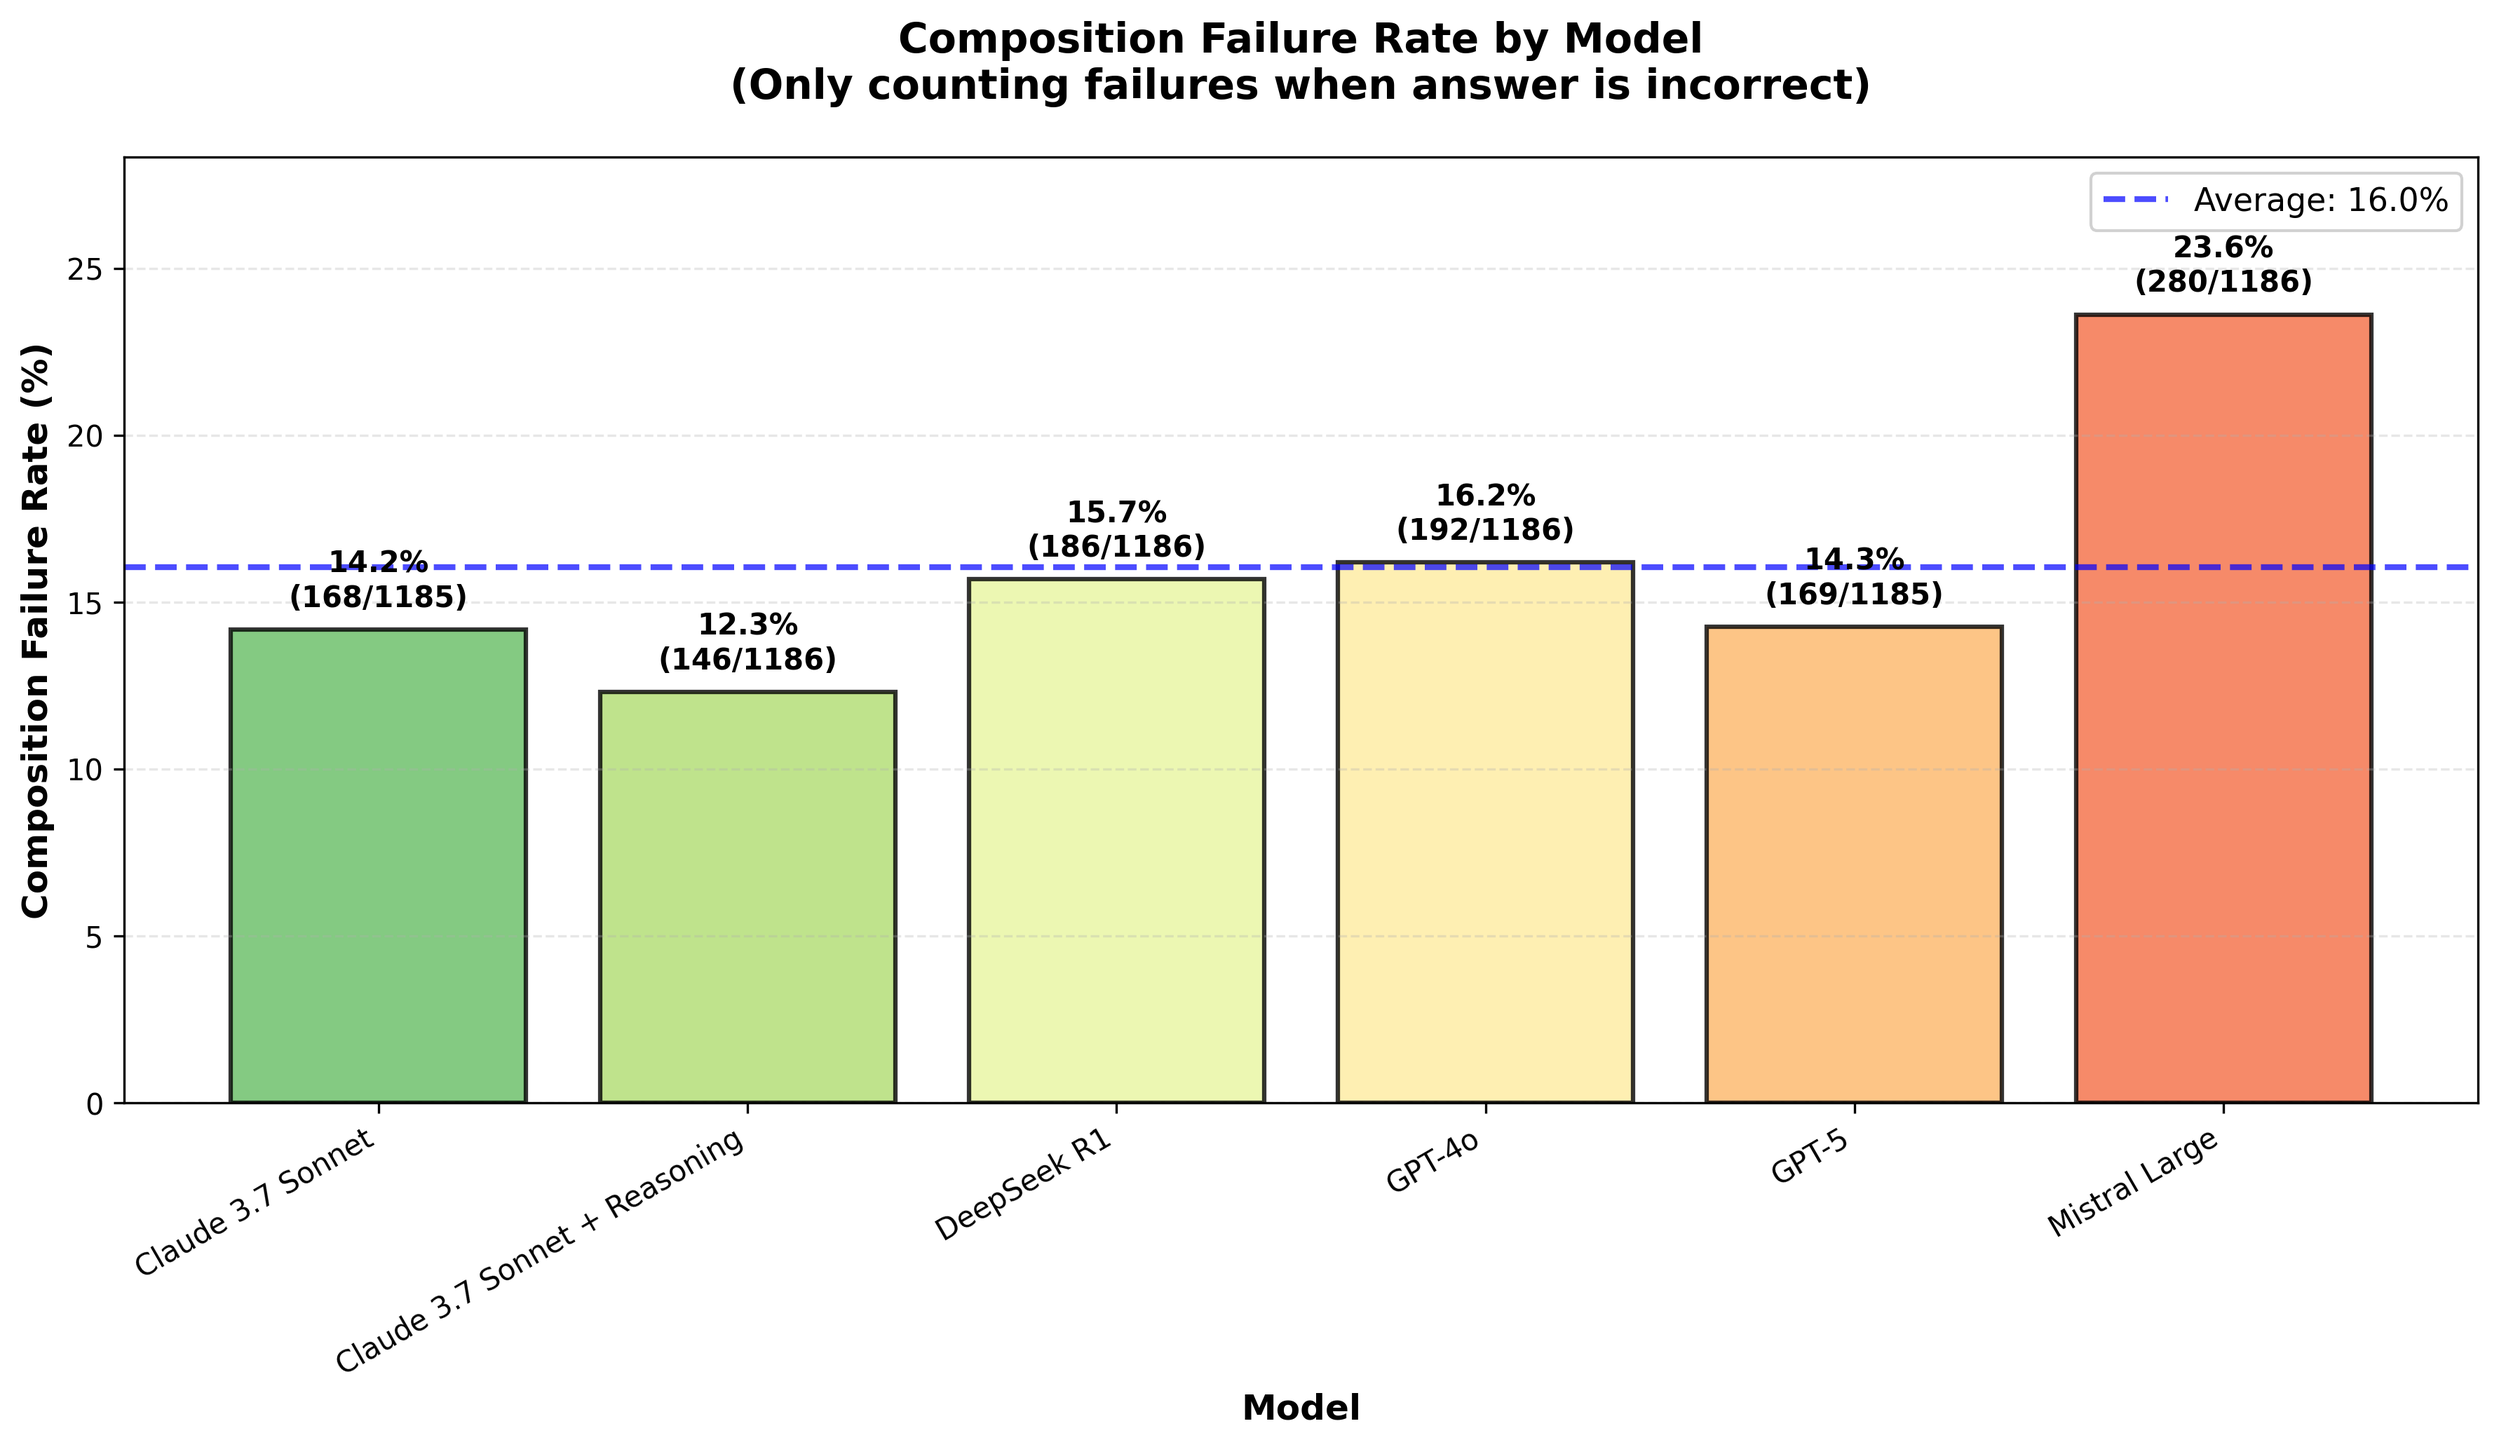
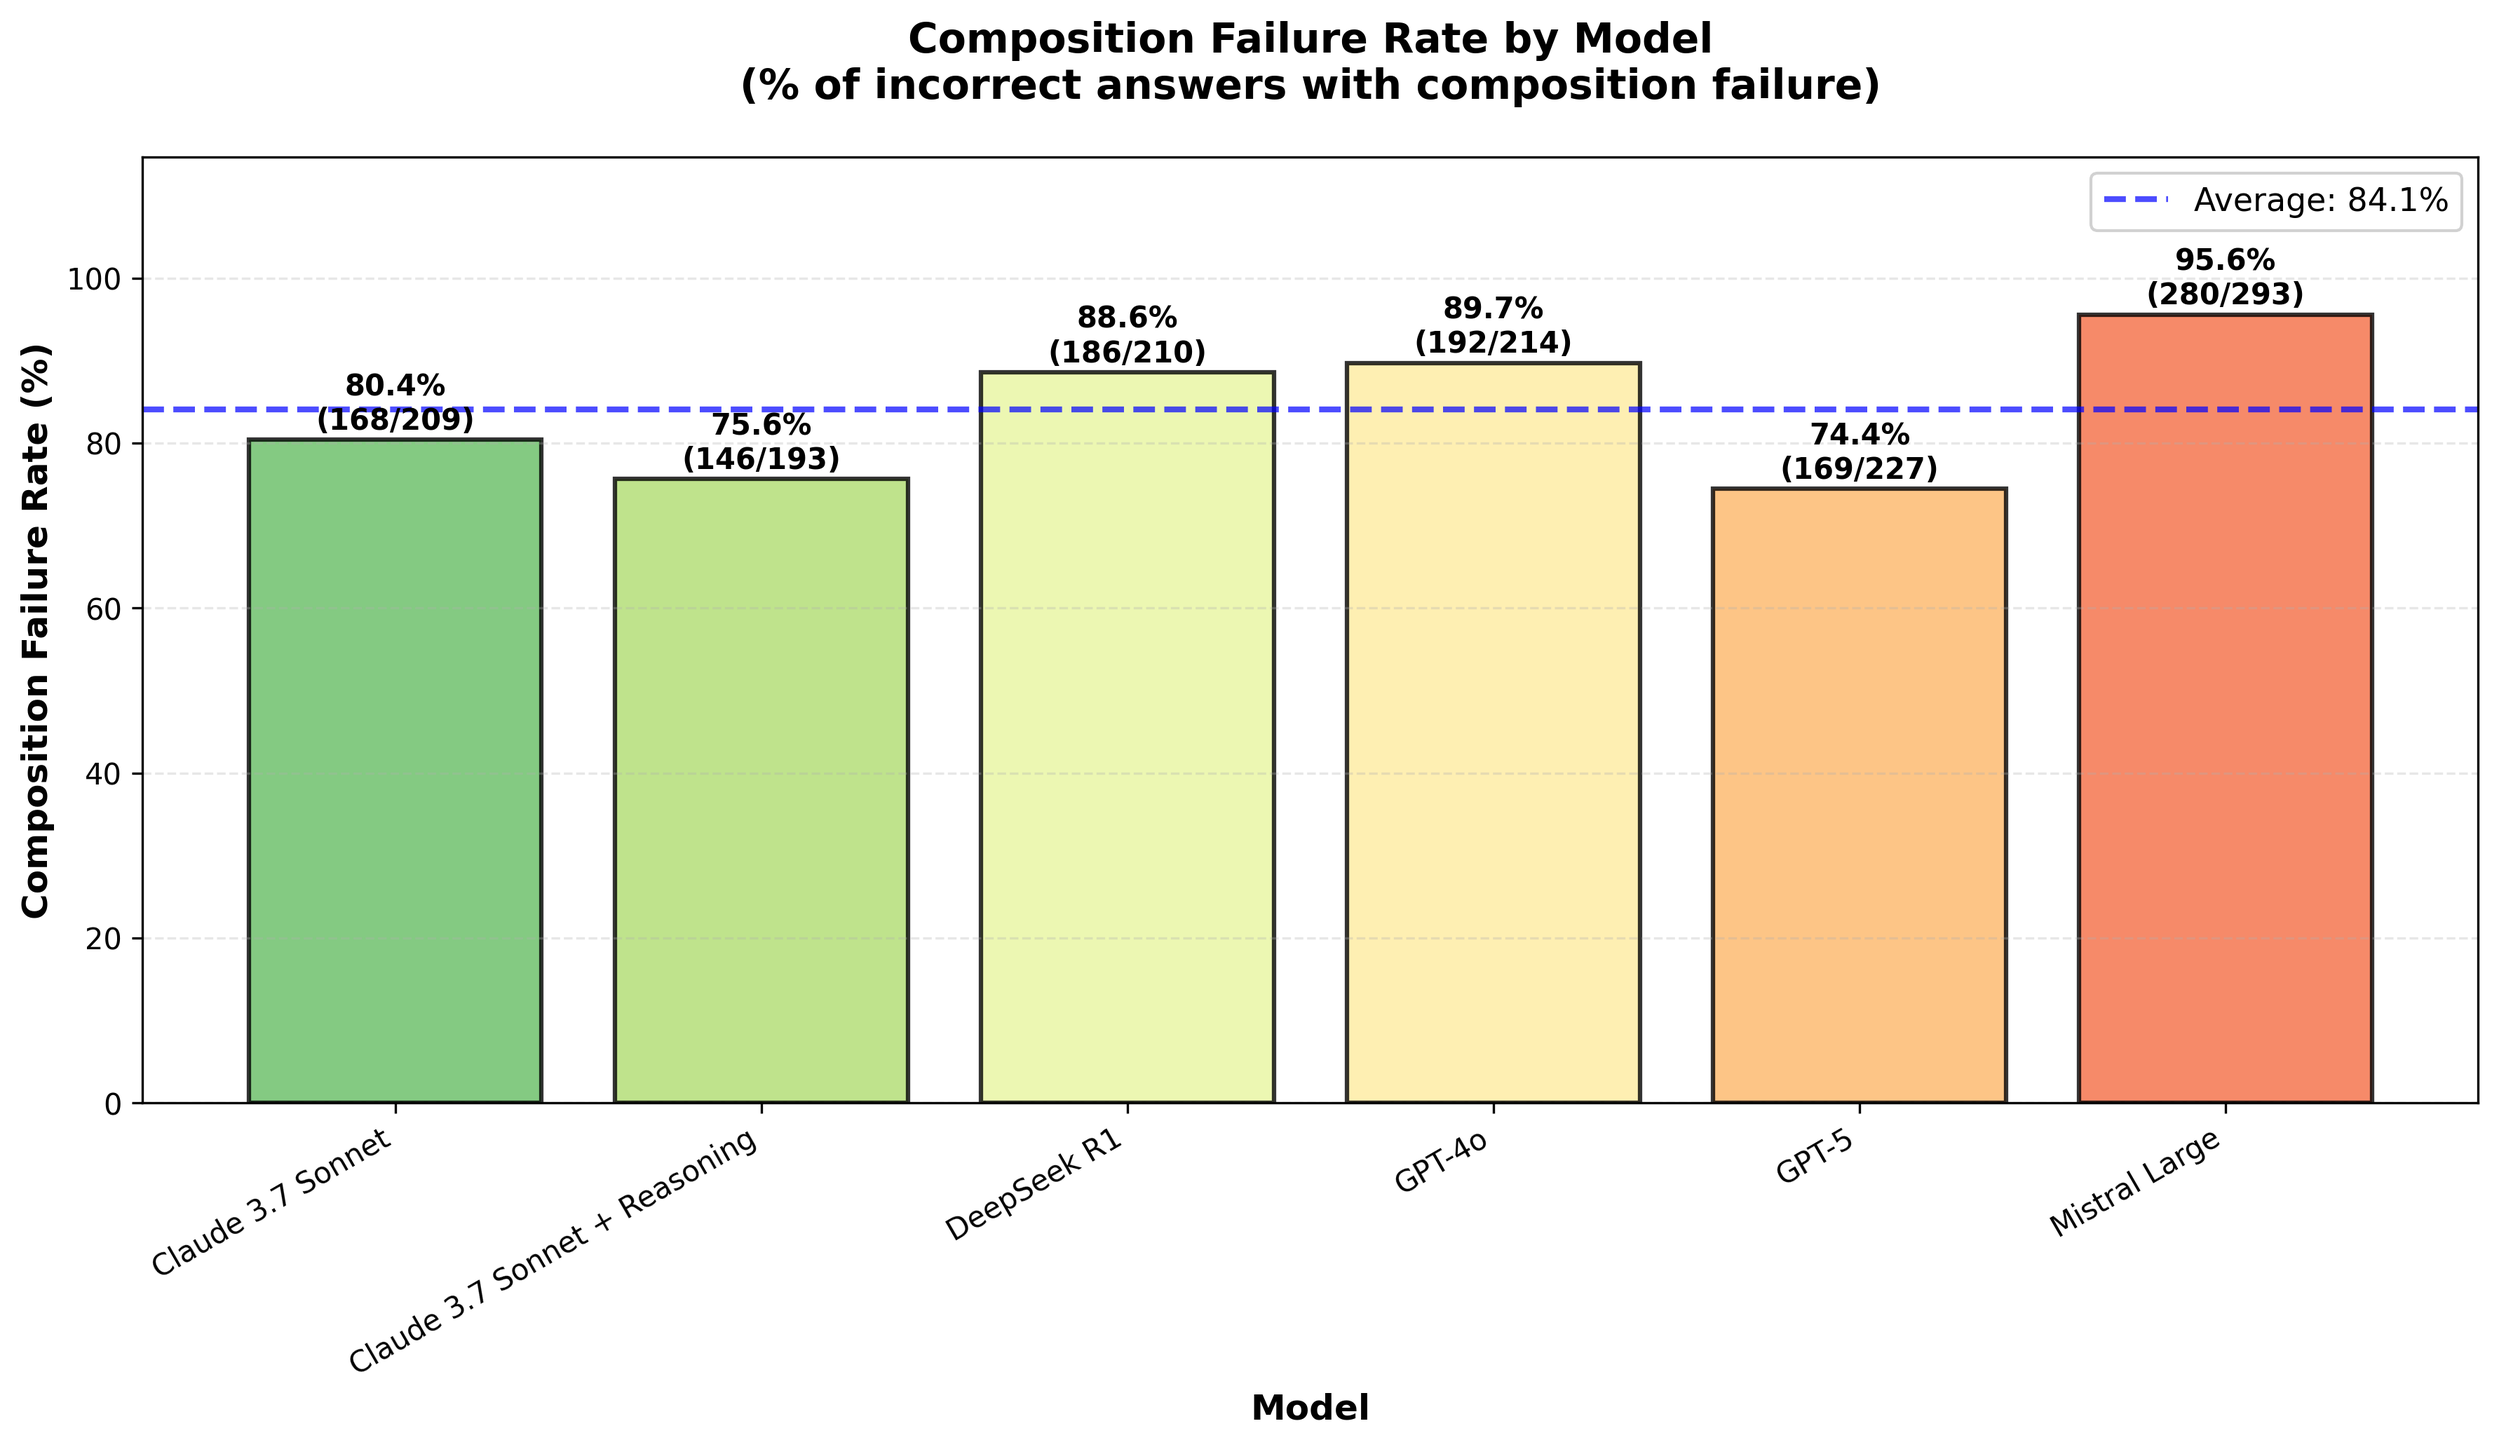
composition failure fixed

diff --git a/src/rag_analysis/hallucination_rag_plots/5_composition_failure_rate.py b/src/rag_analysis/hallucination_rag_plots/5_composition_failure_rate.py
@@ -1,10 +1,10 @@
 """
 Plot 5: Composition Failure Rate by Model
 
-Bar chart showing percentage of runs with composition failure per model.
-Only counts failures when is_correct is False.
+Bar chart showing percentage of incorrect answers with composition failure per model.
+Denominator is the number of incorrect answers (not total runs).
 
-Insight: Which models have higher composition failure rates?
+Insight: Among incorrect answers, which models have higher composition failure rates?
 """
 import json
 import sys
@@ -34,18 +34,20 @@ def main():
     merged = create_merged_dataset(hall_records, cov_records, [])
     
     # Group by model
-    model_stats = defaultdict(lambda: {'total': 0, 'failures': 0})
+    model_stats = defaultdict(lambda: {'incorrects': 0, 'failures': 0})
     
     for rec in merged:
         model = normalize_model_name(rec.get('model', ''))
         is_correct = rec.get('is_correct', False)
         cf = rec.get('hallucination', {}).get('composition_and_faithfulness', {})
         
-        model_stats[model]['total'] += 1
-        
-        # Only count as failure if is_correct is False AND composition_failure is True
-        if not is_correct and cf.get('composition_failure', False):
-            model_stats[model]['failures'] += 1
+        # Only count incorrect answers
+        if not is_correct:
+            model_stats[model]['incorrects'] += 1
+            
+            # Count composition failures among incorrect answers
+            if cf.get('composition_failure', False):
+                model_stats[model]['failures'] += 1
     
     # Calculate percentages
     models = sorted(model_stats.keys())
@@ -55,10 +57,10 @@ def main():
     
     for model in models:
         stats = model_stats[model]
-        rate = 100 * stats['failures'] / stats['total'] if stats['total'] > 0 else 0
+        rate = 100 * stats['failures'] / stats['incorrects'] if stats['incorrects'] > 0 else 0
         failure_rates.append(rate)
         failure_counts.append(stats['failures'])
-        total_counts.append(stats['total'])
+        total_counts.append(stats['incorrects'])
     
     # Create bar chart
     fig, ax = plt.subplots(figsize=(12, 7))
@@ -83,7 +85,7 @@ def main():
     
     ax.set_ylabel('Composition Failure Rate (%)', fontsize=12, fontweight='bold')
     ax.set_xlabel('Model', fontsize=12, fontweight='bold')
-    ax.set_title('Composition Failure Rate by Model\n(Only counting failures when answer is incorrect)', 
+    ax.set_title('Composition Failure Rate by Model\n(% of incorrect answers with composition failure)', 
                  fontsize=14, fontweight='bold', pad=20)
     ax.set_xticks(x)
     ax.set_xticklabels(models, rotation=30, ha='right')
@@ -99,13 +101,13 @@ def main():
     
     # Print statistics
     print("\n=== Composition Failure Rate by Model ===")
-    print("(Only counting failures when is_correct = False)")
+    print("(% of incorrect answers with composition failure)")
     for model in models:
         stats = model_stats[model]
-        rate = 100 * stats['failures'] / stats['total'] if stats['total'] > 0 else 0
+        rate = 100 * stats['failures'] / stats['incorrects'] if stats['incorrects'] > 0 else 0
         print(f"\n{model}:")
-        print(f"  Total runs: {stats['total']}")
-        print(f"  Failures: {stats['failures']}")
+        print(f"  Incorrect answers: {stats['incorrects']}")
+        print(f"  Composition failures: {stats['failures']}")
         print(f"  Failure rate: {rate:.1f}%")
 
 
